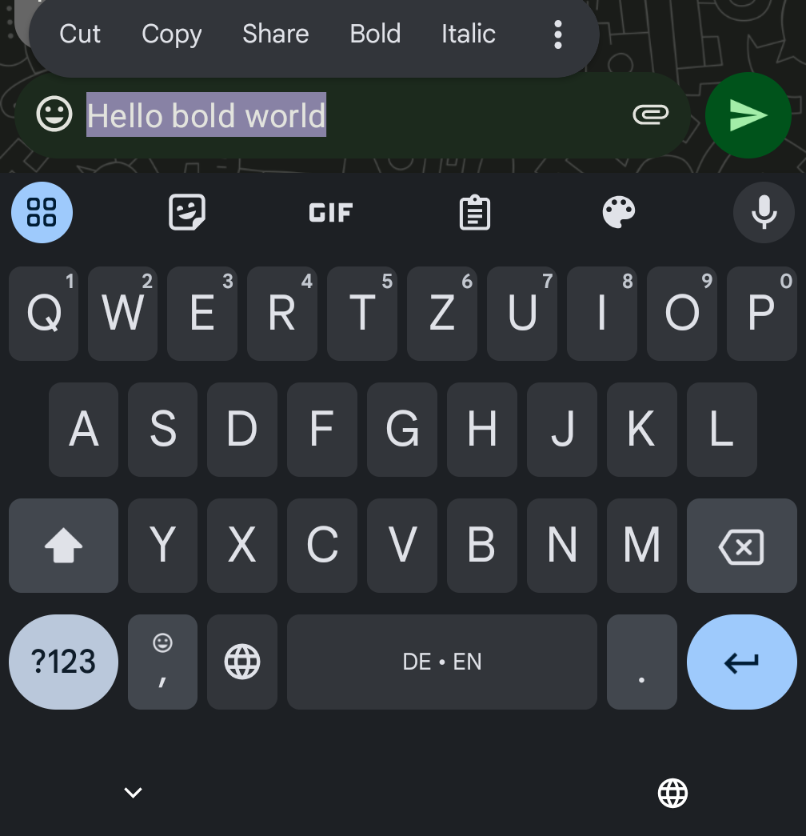
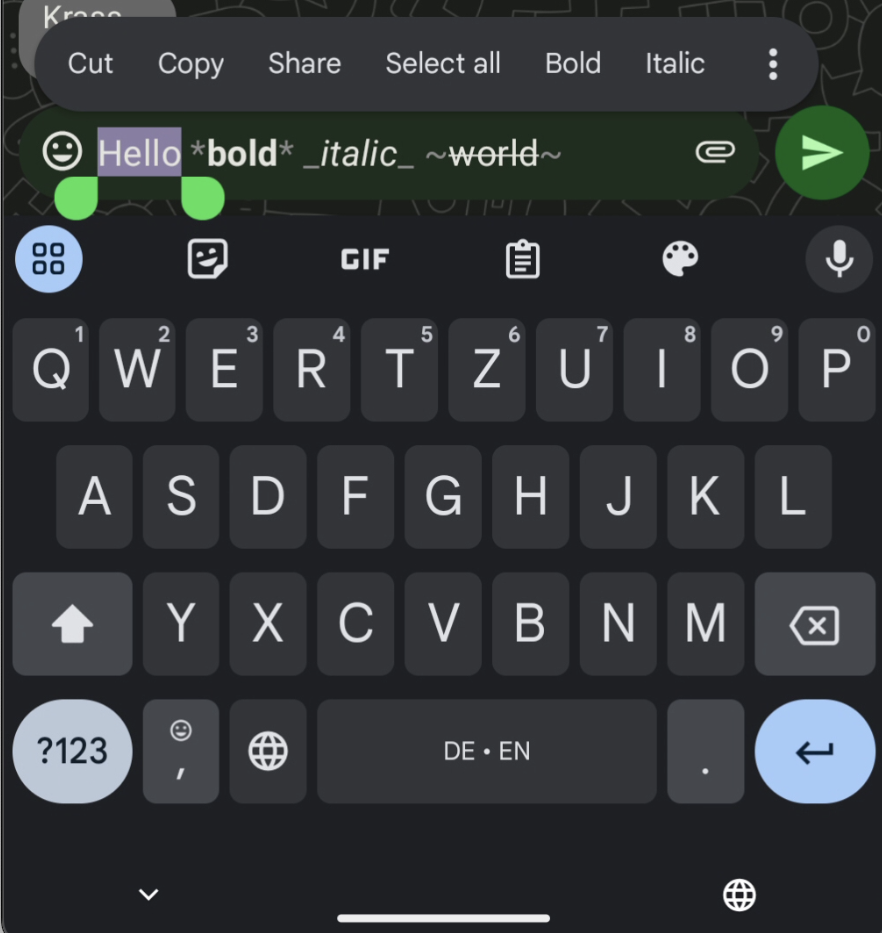
feat: add text controller example

diff --git a/lib/slides/chapter_edit/text_display_edit_slide.dart b/lib/slides/chapter_edit/text_display_edit_slide.dart
@@ -1,5 +1,6 @@
 import 'package:flutter/material.dart';
 import 'package:flutter_deck/flutter_deck.dart';
+import 'package:meetup_talk_25_01_30/text_input_examples/text_editing_controller.dart';
 
 const _speakerNotes = '''
 So let's style a simple text element.
@@ -33,7 +34,7 @@ Let's create our own `TextEditingController` and override the
 `buildTextSpan` method.
 
 
-''';
+'''; // TODO(jillthebean): continue here with transition to next slide
 
 // Text selection docs https://api.flutter.dev/flutter/widgets/SelectableRegion-class.html
 class TextDisplayEditSlide extends FlutterDeckSlideWidget {
@@ -221,39 +222,7 @@ class TextDisplayEditSlide extends FlutterDeckSlideWidget {
             ),
           );''',
       ),
-      rightBuilder: (context) => Center(
-        child: SelectionArea(
-          child: Text.rich(
-            TextSpan(
-              text: 'Hello ',
-              style: FlutterDeckTheme.of(context).textTheme.bodyLarge,
-              children: <TextSpan>[
-                TextSpan(
-                  text: 'bold ',
-                  style: FlutterDeckTheme.of(context)
-                      .textTheme
-                      .bodyLarge
-                      .copyWith(fontWeight: FontWeight.bold),
-                ),
-                TextSpan(
-                  text: 'italic ',
-                  style:
-                      FlutterDeckTheme.of(context).textTheme.bodyLarge.copyWith(
-                            fontStyle: FontStyle.italic,
-                          ),
-                ),
-                TextSpan(
-                  text: 'World',
-                  style:
-                      FlutterDeckTheme.of(context).textTheme.bodyLarge.copyWith(
-                            decoration: TextDecoration.underline,
-                          ),
-                ),
-              ],
-            ),
-          ),
-        ),
-      ),
+      rightBuilder: (context) => const Center(child: CustomTextInput()),
     );
   }
 }

diff --git a/lib/text_input_examples/text_editing_controller.dart b/lib/text_input_examples/text_editing_controller.dart
@@ -1,0 +1,56 @@
+import 'package:flutter/material.dart';
+
+class CustomTextInput extends StatefulWidget {
+  const CustomTextInput({super.key});
+
+  @override
+  State<CustomTextInput> createState() => _CustomTextInputState();
+}
+
+class _CustomTextInputState extends State<CustomTextInput> {
+  late final TextEditingController controller;
+  @override
+  void initState() {
+    super.initState();
+    controller = CustomTextEditingController(text: 'Hello bold world!');
+  }
+
+  @override
+  void dispose() {
+    controller.dispose();
+    super.dispose();
+  }
+
+  @override
+  Widget build(BuildContext context) {
+    return TextField(
+      controller: controller,
+    );
+  }
+}
+
+class CustomTextEditingController extends TextEditingController {
+  CustomTextEditingController({super.text});
+  // TODO(jillthebean): add support for composing style
+  // see super.buildTextSpan
+  @override
+  TextSpan buildTextSpan(
+      {required BuildContext context,
+      TextStyle? style,
+      required bool withComposing}) {
+    final text = value.text;
+    final spans = <InlineSpan>[];
+    bool bold = false;
+    var currentText = text.characters;
+    while (currentText.isNotEmpty) {
+      final part = currentText.take(5);
+      currentText = currentText.skip(5);
+      spans.add(TextSpan(
+          text: part.string,
+          style: bold ? style?.copyWith(fontWeight: FontWeight.bold) : style));
+
+      bold = !bold;
+    }
+    return TextSpan(children: spans);
+  }
+}
